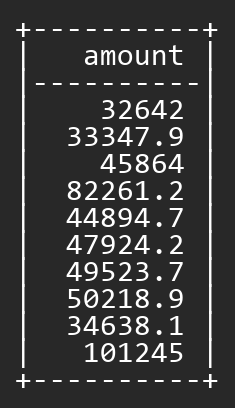
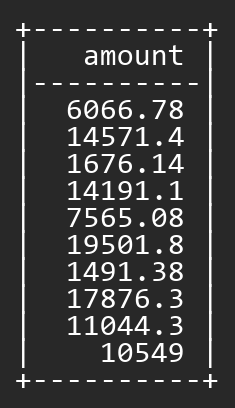
Exercise 32 and 34 fixed

Changed region(s): [[0.2681, 0.2353, 0.8043, 0.9118]]

diff --git a/scripts/exercise_queries.py b/scripts/exercise_queries.py
@@ -452,7 +452,7 @@ def get_exercise_32():
     result = Payment.objects.aggregate(average_amount=Avg('amount'))
     average_amount = result['average_amount']
 
-    query = Payment.objects.filter(amount__gt=average_amount)
+    query = Payment.objects.filter(amount__lt=average_amount)
     query = query.values('amount')
     query = query[0:10]
 
@@ -491,7 +491,7 @@ def get_exercise_34():
         phone=Max('customer__phone'),
         payment_date=Max('payment_date')
     )
-    query = query.order_by(Lower('customer__customer_number'))
+    
     query = query[0:10]
 
     df = DataFrame(data=query)
@@ -681,7 +681,7 @@ def get_exercise_44():
 
 if __name__ == '__main__':
 
-    for idx in [12]:
+    for idx in [32]:
         # for idx in range(1,45):
         func = eval(f'get_exercise_{idx}')
         df = func()

diff --git a/scripts/image_sample_generator.py b/scripts/image_sample_generator.py
@@ -10,7 +10,7 @@ set_option('display.max_columns', 1000)
 set_option('display.width', 2000)
 
 # for idx in range(1,45):
-for idx in [12]:
+for idx in [32,34]:
     func = getattr( eq, f'get_exercise_{idx}' )
     df = func()
     

diff --git a/README.md b/README.md
@@ -912,7 +912,7 @@ from django.db.models import Avg
 result = Payment.objects.aggregate(average_amount=Avg('amount'))
 average_amount = result['average_amount']
 
-query = Payment.objects.filter(amount__gt=average_amount)
+query = Payment.objects.filter(amount__lt=average_amount)
 query = query.values('amount')
 query = query[0:10]
 
@@ -980,7 +980,7 @@ query = query.annotate(
     phone=Max('customer__phone'),
     payment_date=Max('payment_date')
 )
-query = query.order_by(Lower('customer__customer_number'))
+
 query = query[0:10]
 
 df = DataFrame(data=query)
